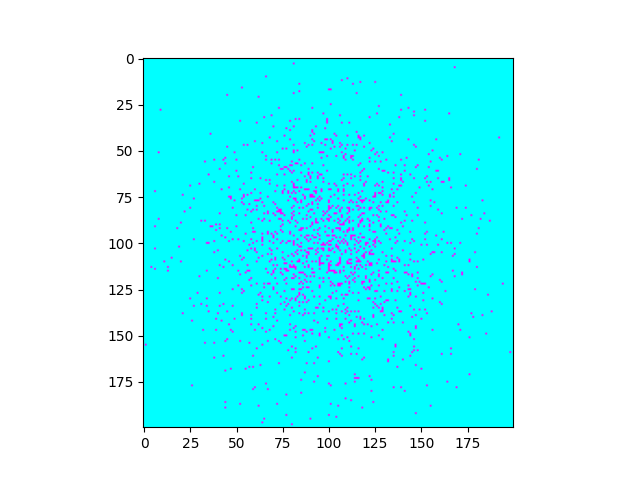
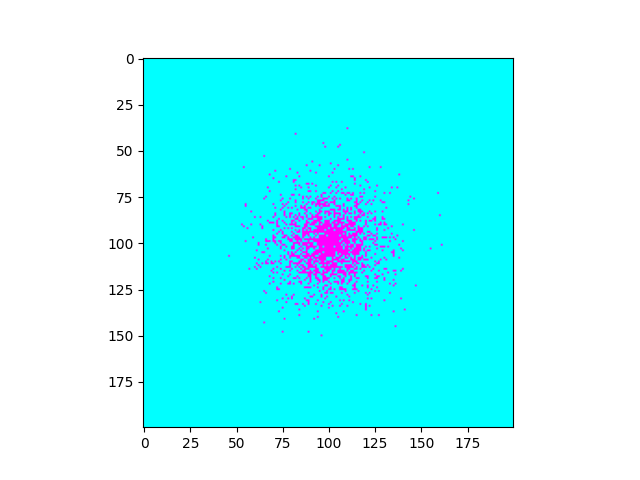
commit

diff --git a/main.py b/main.py
@@ -27,13 +27,13 @@ def check():  # Проверка на растворимость
     return p, flag
 
 
-def randomizer(p):  # Рандомайзер
-    ch = choices((True, False, "Stop"), weights=p, k=1)
-    return ch[0]
+def rotation(temp):  # Поворот
+    global weight
 
-
-def rotation(temp, w):  # Поворот
-    r = randomizer(w)
+    def randomizer(p):  # Рандомайзер
+        ch = choices((True, False, "Stop"), weights=p, k=1)
+        return ch[0]
+    r = randomizer(weight)
     if r is True:  # По часовой
         rotated = list(zip(*temp[::-1]))
     elif r is False:  # Против часовой
@@ -43,33 +43,50 @@ def rotation(temp, w):  # Поворот
     return rotated
 
 
-def algorithm_margolus(k, w):  # Алгоритм окрестности Марголуса
+def algorithm_margolus(k):  # Алгоритм окрестности Марголуса
+    global weight
     for i in range(1, n, 2):
         for j in range(1, m, 2):
             temp = []
-            if (not i == n - 1 and not j == m - 1) and k == 1:
-                counted = algorithm_moore(i, j)
-                w = set_weight(P, counted)
+            if (not i == n - 1 and not j == m - 1) and k == 1:  # Четное
+                counted = algorithm_moore_even(i, j)
+                weight = set_weight(P, counted)
                 temp.append([data[i][j], data[i][j + k]])
                 temp.append([data[i + k][j], data[i + k][j + k]])
-                rotated = rotation(temp, w)
+                rotated = rotation(temp)
                 data[i][j], data[i][j + k], data[i + k][j], data[i + k][j + k] = rotated[0][0], rotated[0][1], rotated[1][0], rotated[1][1]
-            elif k == -1:
-                counted = algorithm_moore(i, j)
-                w = set_weight(P, counted)
+            elif k == -1:  # Нечетное
+                counted = algorithm_moore_odd(i, j)
+                weight = set_weight(P, counted)
                 temp.append([data[i][j], data[i][j + k]])
                 temp.append([data[i + k][j], data[i + k][j + k]])
-                rotated = rotation(temp, w)
+                rotated = rotation(temp)
                 data[i][j], data[i][j + k], data[i + k][j], data[i + k][j + k] = rotated[-1][-1], rotated[-1][0], rotated[0][-1], rotated[0][0]
 
 
-def algorithm_moore(row, col):  # Алгоритм окрестности Мура
+def algorithm_moore_even(row, col):  # Алгоритм окрестности Мура
     count = 0
-    for x, y in ((row - 2, col - 2), (row - 2, col - 1), (row - 2, col), (row - 2, col + 1), (row - 2, col + 2),
-                 (row - 1, col - 2), (row - 1, col - 1), (row - 1, col), (row - 1, col + 1), (row - 1, col + 2),
-                 (row, col - 2), (row, col - 1), (row, col), (row, col + 1), (row, col + 2),
-                 (row + 1, col - 2), (row + 1, col - 1), (row + 1, col), (row + 1, col + 1), (row + 1, col + 2),
-                 (row + 2, col - 2), (row + 2, col - 1), (row + 2, col), (row + 2, col + 1), (row + 2, col + 2)):
+    for x, y in ((row - 2, col - 2), (row - 2, col - 1), (row - 2, col), (row - 2, col + 1), (row - 2, col + 2), (row - 2, col + 3),
+                 (row - 1, col - 2), (row - 1, col - 1), (row - 1, col), (row - 1, col + 1), (row - 1, col + 2), (row - 1, col + 3),
+                 (row, col - 2), (row, col - 1), (row, col), (row, col + 1), (row, col + 2), (row, col + 3),
+                 (row + 1, col - 2), (row + 1, col - 1), (row + 1, col), (row + 1, col + 1), (row + 1, col + 2), (row + 1, col + 3),
+                 (row + 2, col - 2), (row + 2, col - 1), (row + 2, col), (row + 2, col + 1), (row + 2, col + 2), (row + 2, col + 3),
+                 (row + 3, col - 2), (row + 3, col - 1), (row + 3, col), (row + 3, col + 1), (row + 3, col + 2), (row + 3, col + 3)):
+        if not (0 <= x < len(data) and 0 <= y < len(data[x])):
+            continue  # Вне границ
+        if data[x][y] == 1:
+            count += 1
+    return count
+
+
+def algorithm_moore_odd(row, col):  # Алгоритм окрестности Мура
+    count = 0
+    for x, y in ((row - 3, col - 3), (row - 3, col - 2), (row - 3, col - 1), (row - 3, col), (row - 3, col + 1), (row - 3, col + 2),
+                 (row - 2, col - 3), (row - 2, col - 2), (row - 2, col - 1), (row - 2, col), (row - 2, col + 1), (row - 2, col + 2),
+                 (row - 1, col - 3), (row - 1, col - 2), (row - 1, col - 1), (row - 1, col), (row - 1, col + 1), (row - 1, col + 2),
+                 (row, col - 3), (row, col - 2), (row, col - 1), (row, col), (row, col + 1), (row, col + 2),
+                 (row + 1, col - 3), (row + 1, col - 2), (row + 1, col - 1), (row + 1, col), (row + 1, col + 1), (row + 1, col + 2),
+                 (row + 2, col - 3), (row + 2, col - 2), (row + 2, col - 1), (row + 2, col), (row + 2, col + 1), (row + 2, col + 2)):
         if not (0 <= x < len(data) and 0 <= y < len(data[x])):
             continue  # Вне границ
         if data[x][y] == 1:
@@ -89,13 +106,19 @@ def space(n, m):  # Создание поля
 def set_weight(p, count):
     if count != 0:
         if p == 0:
-            p += count * 2
+            p += count * 2.5
+            if p >= 100:
+                p = 100
             w = [(100 - p) / 2, (100 - p) / 2, p]
         elif p == 50:
-            p += count
+            p += count * 1.5
+            if p >= 100:
+                p = 100
             w = [(100 - p) / 2, (100 - p) / 2, p]
         elif p == 90:
-            p += count * 0.1
+            p += count * 0.4
+            if p >= 100:
+                p = 100
             w = [(100 - p) / 2, (100 - p) / 2, p]
     else:
         w = [(100 - p) / 2, (100 - p) / 2, p]
@@ -113,7 +136,7 @@ check_tuple = check()
 P = int(check_tuple[0])
 COUNT = 0
 weight = set_weight(P, COUNT)
-epoch = 1000
+epoch = 100
 
 plt.ion()
 fig, ax = plt.subplots()
@@ -121,11 +144,11 @@ axim = ax.imshow(np.array(data), vmin=0, vmax=1, cmap='cool')
 
 if check_tuple[1]:
     for _ in range(epoch):
-        algorithm_margolus(1, weight)
-        algorithm_margolus(-1, weight)
+        algorithm_margolus(1)
+        algorithm_margolus(-1)
         axim.set_data(np.array(data))
         fig.canvas.flush_events()
         # plt.pause(0.1)
 
-    plt.savefig("Solubility2.png")
+    plt.savefig("Solubility.png")
     plt.show()
